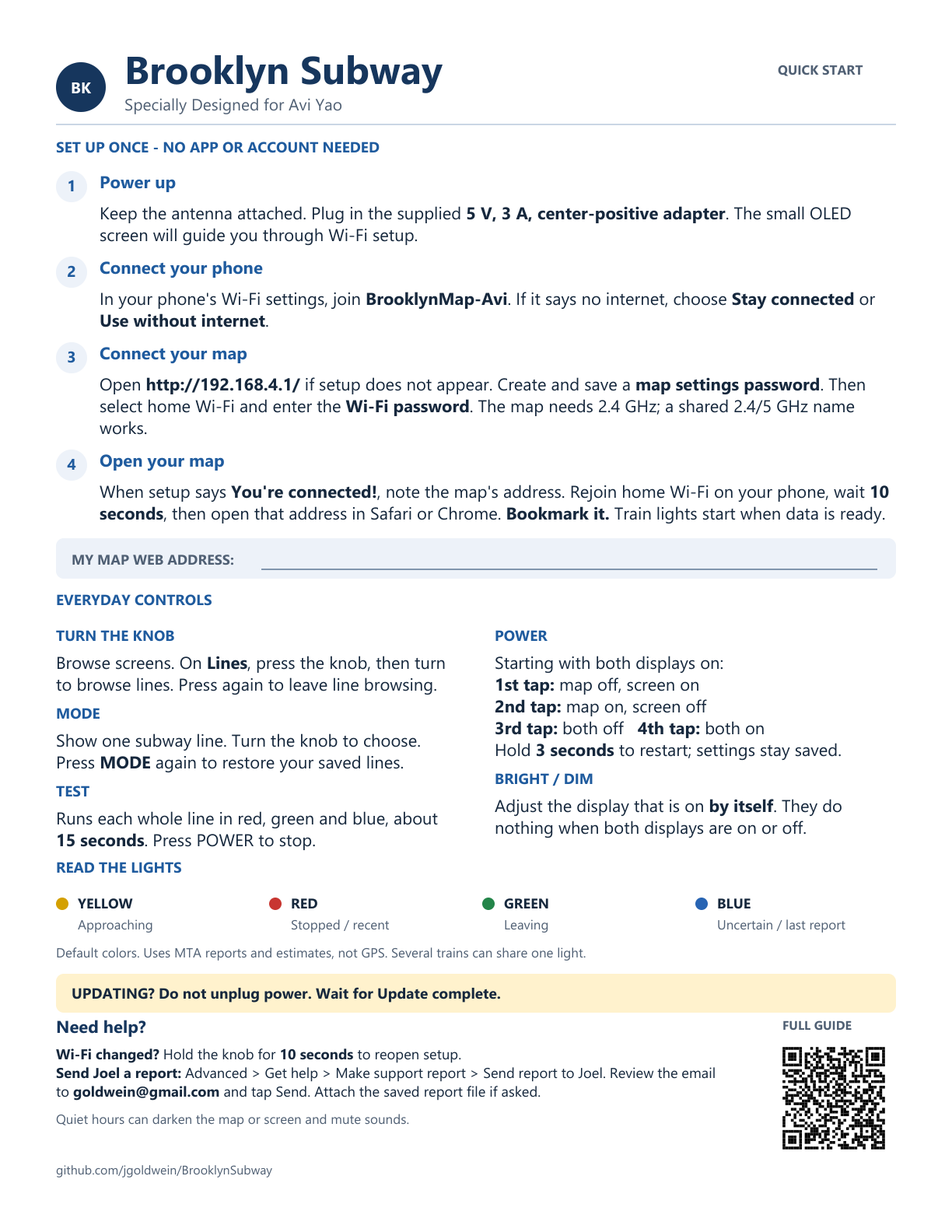
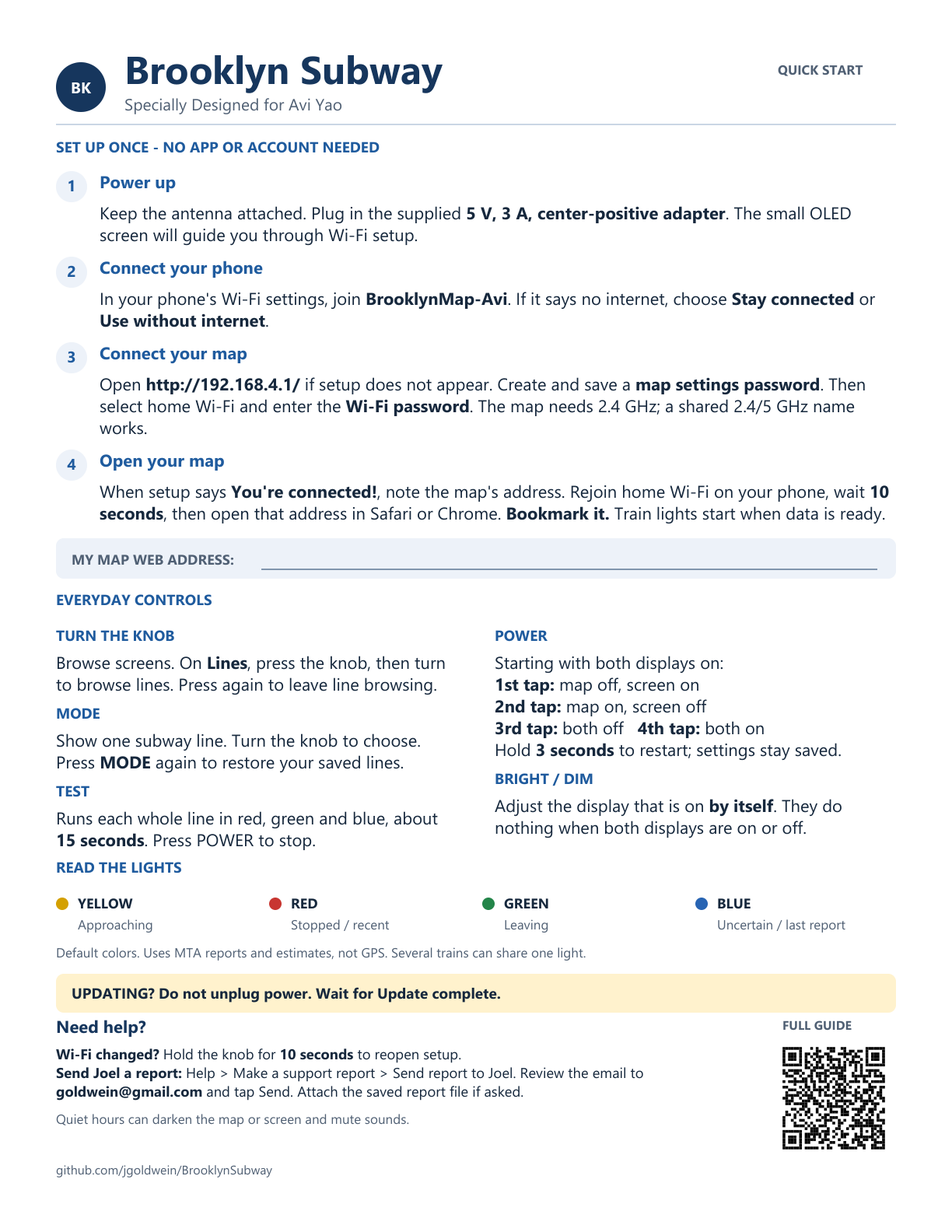
Add top-level Help with project links, About and Licenses

Changed region(s): [[0.0621, 0.8662, 0.683, 0.8971]]

diff --git a/include/web_ui_assets.h b/include/web_ui_assets.h
@@ -3,10 +3,10 @@
 #pragma once
 namespace brooklyn::web {
 // Increment the query version whenever these assets change.
-constexpr char kWebUiAssetHead[]=R"UI(<link rel="stylesheet" href="/ui.css?v=038"><script defer src="/ui.js?v=038"></script>)UI";
+constexpr char kWebUiAssetHead[]=R"UI(<link rel="stylesheet" href="/ui.css?v=087"><script defer src="/ui.js?v=087"></script>)UI";
 constexpr char kWebUiCss[]=R"UI(
-*{box-sizing:border-box}body{margin:0 auto;padding:24px 20px;max-width:1040px;background:#f3f6fb;color:#192b44;font:16px/1.5 system-ui,sans-serif}a{color:#1755b3;text-underline-offset:3px}h1,h2,h3,p{margin:0 0 12px}h1{font-size:26px;letter-spacing:-.6px}h2{font-size:21px;letter-spacing:-.3px}h3{font-size:17px}header{display:flex;align-items:center;justify-content:space-between;gap:12px;flex-wrap:wrap;margin-bottom:20px}.brand{display:flex;gap:12px;align-items:center}.brand-mark{display:grid;place-items:center;background:#184b96;color:white;width:44px;height:44px;border-radius:50%;font-weight:800;flex-shrink:0}.subtitle,.muted,.hint{color:#52647b;font-size:14px}.subtitle{margin:0}.account{font-size:14px}.nav{position:sticky;top:8px;z-index:2;display:flex;gap:5px;padding:6px;background:white;border:1px solid #dce4ef;border-radius:14px;margin:0 0 22px}.nav a{flex:1;text-align:center;text-decoration:none;font-weight:650;padding:11px 10px;border-radius:9px;color:#52647b;min-height:44px}.nav a[aria-current=page]{background:#184b96;color:white}.login-shell{display:block;max-width:28rem;margin:40px auto}main{display:grid;grid-template-columns:repeat(2,minmax(0,1fr));gap:18px;align-items:start}section,.card{background:white;border:1px solid #dce4ef;border-radius:16px;padding:22px;min-width:0;box-shadow:0 3px 12px #20365406}.wide,.hero{grid-column:1/-1}.ui-ready .train-colors{grid-column:1/-1;grid-row:1}.ui-ready .map-brightness{grid-column:1;grid-row:2}.ui-ready .uncertain-lights{grid-column:2;grid-row:2/span 2}.ui-ready .blue-hold{grid-column:1;grid-row:3}.hero{border-top:4px solid #1d67b8}.kicker{font-size:12px;text-transform:uppercase;letter-spacing:1.2px;color:#52647b;font-weight:750}.hero h2{font-size:32px;margin:0 0 4px}.metrics{display:grid;grid-template-columns:repeat(3,minmax(0,1fr));gap:12px;margin:20px 0}.metric{border-left:3px solid #dfebf8;padding-left:12px}.metric strong{display:block;font-size:27px;letter-spacing:-.7px}.metric span{font-size:13px;color:#52647b}.actions{display:flex;gap:10px;flex-wrap:wrap}.button,button{display:inline-block;font:inherit;font-weight:650;background:#184b96;border:1px solid #184b96;border-radius:9px;color:white;padding:10px 16px;min-height:44px;text-decoration:none;cursor:pointer}.secondary,.route-controls button{background:#edf3fb;border-color:#d6e2f3;color:#184b96}.button:hover,button:hover{filter:brightness(.94)}:focus-visible{outline:3px solid #d28a00;outline-offset:3px}form{display:grid;gap:12px;margin:16px 0 4px}button{justify-self:start}label{display:block;margin:0;font-weight:550}input,select{font:inherit;max-width:100%;border:1px solid #a8b8cc;border-radius:8px;padding:10px;color:inherit;background:white;min-height:44px}label input:not([type=checkbox]):not([type=range]),label select{display:block;width:100%;margin-top:5px}input[type=checkbox]{width:20px;height:20px;min-height:20px;padding:0;vertical-align:middle;accent-color:#184b96;margin-right:7px}input[type=range]{width:100%;padding:0;accent-color:#184b96;display:block}input[type=number]{max-width:11rem}input[type=password],input[type=text]{width:100%}summary{cursor:pointer;font-weight:650;min-height:44px}details:not(.card){margin:16px 0}details[open]>summary{margin-bottom:16px}dl{display:grid;grid-template-columns:minmax(8rem,1fr) 2fr;gap:8px 14px;font-size:14px;margin:12px 0}dt{font-weight:600;color:#52647b}dd{margin:0;overflow-wrap:anywhere}pre{font-size:12px;max-width:100%;overflow:auto}.color-options{display:grid;grid-template-columns:repeat(4,minmax(0,1fr));gap:14px}.color-options input{height:52px;width:100%;padding:4px}.route-controls{display:flex;gap:8px;margin-bottom:14px;flex-wrap:wrap}.route-list{display:grid;grid-template-columns:repeat(auto-fit,minmax(92px,1fr));gap:8px}.route-list label{display:flex;align-items:center;border:1px solid #dce4ef;border-radius:9px;padding:9px;margin:0;min-height:48px}.route-badge{display:grid;place-items:center;width:29px;height:29px;border-radius:50%;background:#566579;color:white;font-weight:750}.r-2,.r-3{background:#c82b27}.r-4,.r-5,.r-G{background:#16733a}.r-A,.r-C{background:#1657a5}.r-B,.r-D,.r-F,.r-M{background:#c34d09}.r-N,.r-Q,.r-R{background:#ffce32;color:#30290c}.r-J,.r-Z{background:#80552e}.legend{display:grid;grid-template-columns:repeat(2,minmax(0,1fr));gap:12px;font-size:14px}.swatch{display:inline-block;width:12px;height:12px;border-radius:50%;margin-right:8px;border:1px solid #b0bfd1}.blue{background:#205dff}.cyan{background:#25c6c7}.pink{background:#da62ba}.white{background:#f1f3f8}.notice{color:#52647b;font-size:14px;margin:0}.notice:empty{display:none}.footer{text-align:center;font-size:12px;color:#52647b;padding:20px}.danger,form[action='/reboot'] button{background:white;color:#a42c35;border-color:#dfb8bd}[hidden]{display:none!important}@media(max-width:600px){.color-options{grid-template-columns:repeat(2,minmax(0,1fr))}body{padding:16px 12px}h1{font-size:22px}.brand{gap:9px}.brand-mark{width:36px;height:36px;font-size:14px}.subtitle{font-size:12px}.nav a{padding:10px 3px;font-size:13px}.nav{gap:2px;display:grid;grid-template-columns:repeat(5,minmax(0,1fr))}main{display:block}section,.card{padding:18px;margin-bottom:14px}.hero h2{font-size:28px}.metric strong{font-size:23px}.metric{padding-left:8px}.metrics{gap:6px}.metric span{font-size:12px}dl{grid-template-columns:minmax(7rem,1fr) 1.5fr}.actions .button{flex:1;text-align:center}.account{font-size:12px}}
+*{box-sizing:border-box}body{margin:0 auto;padding:24px 20px;max-width:1040px;background:#f3f6fb;color:#192b44;font:16px/1.5 system-ui,sans-serif}a{color:#1755b3;text-underline-offset:3px}h1,h2,h3,p{margin:0 0 12px}h1{font-size:26px;letter-spacing:-.6px}h2{font-size:21px;letter-spacing:-.3px}h3{font-size:17px}header{display:flex;align-items:center;justify-content:space-between;gap:12px;flex-wrap:wrap;margin-bottom:20px}.brand{display:flex;gap:12px;align-items:center}.brand-mark{display:grid;place-items:center;background:#184b96;color:white;width:44px;height:44px;border-radius:50%;font-weight:800;flex-shrink:0}.subtitle,.muted,.hint{color:#52647b;font-size:14px}.subtitle{margin:0}.account{font-size:14px}.nav{position:sticky;top:8px;z-index:2;display:flex;gap:5px;padding:6px;background:white;border:1px solid #dce4ef;border-radius:14px;margin:0 0 22px}.nav a{flex:1;text-align:center;text-decoration:none;font-weight:650;padding:11px 10px;border-radius:9px;color:#52647b;min-height:44px}.nav a[aria-current=page]{background:#184b96;color:white}.login-shell{display:block;max-width:28rem;margin:40px auto}main{display:grid;grid-template-columns:repeat(2,minmax(0,1fr));gap:18px;align-items:start}section,.card{background:white;border:1px solid #dce4ef;border-radius:16px;padding:22px;min-width:0;box-shadow:0 3px 12px #20365406}.wide,.hero{grid-column:1/-1}.ui-ready .train-colors{grid-column:1/-1;grid-row:1}.ui-ready .map-brightness{grid-column:1;grid-row:2}.ui-ready .uncertain-lights{grid-column:2;grid-row:2/span 2}.ui-ready .blue-hold{grid-column:1;grid-row:3}.hero{border-top:4px solid #1d67b8}.kicker{font-size:12px;text-transform:uppercase;letter-spacing:1.2px;color:#52647b;font-weight:750}.hero h2{font-size:32px;margin:0 0 4px}.metrics{display:grid;grid-template-columns:repeat(3,minmax(0,1fr));gap:12px;margin:20px 0}.metric{border-left:3px solid #dfebf8;padding-left:12px}.metric strong{display:block;font-size:27px;letter-spacing:-.7px}.metric span{font-size:13px;color:#52647b}.actions{display:flex;gap:10px;flex-wrap:wrap}.button,button{display:inline-block;font:inherit;font-weight:650;background:#184b96;border:1px solid #184b96;border-radius:9px;color:white;padding:10px 16px;min-height:44px;text-decoration:none;cursor:pointer}.secondary,.route-controls button{background:#edf3fb;border-color:#d6e2f3;color:#184b96}.button:hover,button:hover{filter:brightness(.94)}:focus-visible{outline:3px solid #d28a00;outline-offset:3px}form{display:grid;gap:12px;margin:16px 0 4px}button{justify-self:start}label{display:block;margin:0;font-weight:550}input,select{font:inherit;max-width:100%;border:1px solid #a8b8cc;border-radius:8px;padding:10px;color:inherit;background:white;min-height:44px}label input:not([type=checkbox]):not([type=range]),label select{display:block;width:100%;margin-top:5px}input[type=checkbox]{width:20px;height:20px;min-height:20px;padding:0;vertical-align:middle;accent-color:#184b96;margin-right:7px}input[type=range]{width:100%;padding:0;accent-color:#184b96;display:block}input[type=number]{max-width:11rem}input[type=password],input[type=text]{width:100%}summary{cursor:pointer;font-weight:650;min-height:44px}details:not(.card){margin:16px 0}details[open]>summary{margin-bottom:16px}dl{display:grid;grid-template-columns:minmax(8rem,1fr) 2fr;gap:8px 14px;font-size:14px;margin:12px 0}dt{font-weight:600;color:#52647b}dd{margin:0;overflow-wrap:anywhere}pre{font-size:12px;max-width:100%;overflow:auto}.color-options{display:grid;grid-template-columns:repeat(4,minmax(0,1fr));gap:14px}.color-options input{height:52px;width:100%;padding:4px}.route-controls{display:flex;gap:8px;margin-bottom:14px;flex-wrap:wrap}.route-list{display:grid;grid-template-columns:repeat(auto-fit,minmax(92px,1fr));gap:8px}.route-list label{display:flex;align-items:center;border:1px solid #dce4ef;border-radius:9px;padding:9px;margin:0;min-height:48px}.route-badge{display:grid;place-items:center;width:29px;height:29px;border-radius:50%;background:#566579;color:white;font-weight:750}.r-2,.r-3{background:#c82b27}.r-4,.r-5,.r-G{background:#16733a}.r-A,.r-C{background:#1657a5}.r-B,.r-D,.r-F,.r-M{background:#c34d09}.r-N,.r-Q,.r-R{background:#ffce32;color:#30290c}.r-J,.r-Z{background:#80552e}.legend{display:grid;grid-template-columns:repeat(2,minmax(0,1fr));gap:12px;font-size:14px}.swatch{display:inline-block;width:12px;height:12px;border-radius:50%;margin-right:8px;border:1px solid #b0bfd1}.blue{background:#205dff}.cyan{background:#25c6c7}.pink{background:#da62ba}.white{background:#f1f3f8}.notice{color:#52647b;font-size:14px;margin:0}.notice:empty{display:none}.footer{text-align:center;font-size:12px;color:#52647b;padding:20px}.danger,form[action='/reboot'] button{background:white;color:#a42c35;border-color:#dfb8bd}[hidden]{display:none!important}@media(max-width:600px){.color-options{grid-template-columns:repeat(2,minmax(0,1fr))}body{padding:16px 12px}h1{font-size:22px}.brand{gap:9px}.brand-mark{width:36px;height:36px;font-size:14px}.subtitle{font-size:12px}.nav a{padding:10px 3px;font-size:13px}.nav{gap:2px;display:grid;grid-template-columns:repeat(3,minmax(0,1fr))}main{display:block}section,.card{padding:18px;margin-bottom:14px}.hero h2{font-size:28px}.metric strong{font-size:23px}.metric{padding-left:8px}.metrics{gap:6px}.metric span{font-size:12px}dl{grid-template-columns:minmax(7rem,1fr) 1.5fr}.actions .button{flex:1;text-align:center}.account{font-size:12px}}
 )UI";
-constexpr char kWebUiNavigation[]=R"UI(<nav class="nav" aria-label="Map settings"><a href="#overview" data-nav="overview" aria-current="page">Overview</a><a href="#lights" data-nav="lights">Train lights</a><a href="#screen" data-nav="screen">Screen</a><a href="#wifi" data-nav="wifi">Wi-Fi</a><a href="#advanced" data-nav="advanced">Advanced</a></nav>)UI";
+constexpr char kWebUiNavigation[]=R"UI(<nav class="nav" aria-label="Map settings"><a href="#overview" data-nav="overview" aria-current="page">Overview</a><a href="#lights" data-nav="lights">Train lights</a><a href="#screen" data-nav="screen">Screen</a><a href="#wifi" data-nav="wifi">Wi-Fi</a><a href="#advanced" data-nav="advanced">Advanced</a><a href="/help">Help</a></nav>)UI";
 constexpr char kWebUiNavigationScript[]=R"UI((()=>{const ids=['overview','lights','screen','wifi','advanced'];function show(focus){document.body.classList.add('ui-ready');let id=location.hash.slice(1);if(!ids.includes(id)){try{id=sessionStorage.getItem('bkmap-view')}catch(e){}if(!ids.includes(id))id='overview'}document.querySelectorAll('[data-view]').forEach(e=>e.hidden=e.dataset.view!==id);document.querySelectorAll('[data-nav]').forEach(e=>{if(e.dataset.nav===id)e.setAttribute('aria-current','page');else e.removeAttribute('aria-current')});try{sessionStorage.setItem('bkmap-view',id)}catch(e){}if(focus){const h=document.querySelector('[data-view="'+id+'"] h2');if(h){h.tabIndex=-1;h.focus({preventScroll:true})}window.scrollTo(0,0)}}addEventListener('hashchange',()=>show(true));show(false);document.querySelectorAll('form[action^="/config/"]').forEach(f=>f.addEventListener('submit',()=>{const b=f.querySelector('button[type=submit],button:not([type])');if(b){b.dataset.label=b.textContent;b.disabled=true;b.textContent='Saving...'}}));addEventListener('pageshow',()=>document.querySelectorAll('button[data-label]').forEach(b=>{b.textContent=b.dataset.label;b.disabled=false}))})();)UI";
 }

diff --git a/src/lan_web_policy.cpp b/src/lan_web_policy.cpp
@@ -827,7 +827,6 @@ size_t renderHomePage(char *out, size_t capacity,
     writer.append("</div><button type=\"submit\">Save subway lines</button></form>");
   }
   writer.append("<p class=\"muted\">You can hide every line. The small status lights keep working.</p></section>");
-  writer.append("<details class=\"card wide\" data-view=\"advanced\"><summary>Get help</summary><a href=\"/support\">Make a support report</a></details>");
   writer.append("<details class=\"card wide\" data-view=\"advanced\"><summary>Memory diagnostics</summary><dl>"
                 "<dt>Free internal heap</dt><dd>");
   writer.format("%lu B", static_cast<unsigned long>(status.freeInternalHeap));
@@ -905,6 +904,14 @@ const char *loginTargetForRequest(const char *path) {
   if (strncmp(path,"/config/",8)==0) return "lights";
   if (strcmp(path,"/network-diagnostics/run")==0 || strcmp(path,"/admin/password")==0 || strcmp(path,"/reboot")==0) return "advanced";
   return "overview";
+}
+
+size_t renderHelpPage(char *out,size_t capacity,const char *version,const char *target) {
+  Writer w(out,capacity);
+  w.append("<!doctype html><html lang=\"en\"><head><meta charset=\"utf-8\"><meta name=\"viewport\" content=\"width=device-width,initial-scale=1\"><title>Help - Brooklyn Subway</title><link rel=\"stylesheet\" href=\"/ui.css?v=087\"></head><body><header><div class=\"brand\"><span class=\"brand-mark\" aria-hidden=\"true\">BK</span><div><h1>Brooklyn Subway</h1><p class=\"subtitle\">Specially Designed for Avi Yao</p></div></div></header><nav class=\"nav\" aria-label=\"Map settings\"><a href=\"/#overview\">Overview</a><a href=\"/#lights\">Train lights</a><a href=\"/#screen\">Screen</a><a href=\"/#wifi\">Wi-Fi</a><a href=\"/#advanced\">Advanced</a><a href=\"/help\" aria-current=\"page\">Help</a></nav><main><section class=\"hero\"><p class=\"kicker\">Help &amp; instructions</p><h2>Get to know your map</h2><p>Read the guide, visit the project, or send Joel a report if something looks wrong.</p><div class=\"actions\"><a class=\"button\" href=\"https://github.com/jgoldwein/BrooklynSubway/blob/main/docs/AVI_USER_GUIDE.md\" target=\"_blank\" rel=\"noopener noreferrer\">Read the guide</a><a class=\"button secondary\" href=\"https://github.com/jgoldwein/BrooklynSubway\" target=\"_blank\" rel=\"noopener noreferrer\">Project on GitHub</a></div><p class=\"hint\">GitHub opens in a new tab and needs internet access. This Help page works on your local network.</p></section><section><h2>Ask Joel for help</h2><p>Make a support report, review it, and send it with a description of what happened. Nothing is sent automatically.</p><a class=\"button\" href=\"/support\">Make a support report</a></section><section id=\"about\"><h2>About</h2><p>Brooklyn Subway is a connected subway map specially designed for Avi Yao, from the Goldweins.</p><p>It uses MTA train reports to estimate where trains are. Reports can be delayed or uncertain. This is an independent project, not an official MTA product.</p><dl><dt>Firmware version</dt><dd>");
+  w.html(version);w.append("</dd><dt>Device</dt><dd>");w.html(target);
+  w.append("</dd></dl><p>Copyright 2026 Joel W. Goldwein for original project material.</p></section><section class=\"wide\" id=\"licenses\"><h2>Licenses</h2><p>The original project material uses these licenses:</p><ul><li>Firmware and software: <a href=\"https://github.com/jgoldwein/BrooklynSubway/blob/main/LICENSES/Apache-2.0.txt\" target=\"_blank\" rel=\"noopener noreferrer\">Apache License 2.0</a>.</li><li>Hardware designs: <a href=\"https://github.com/jgoldwein/BrooklynSubway/blob/main/LICENSES/CERN-OHL-P-2.0.txt\" target=\"_blank\" rel=\"noopener noreferrer\">CERN Open Hardware Licence, permissive version 2</a>.</li><li>Documentation: <a href=\"https://github.com/jgoldwein/BrooklynSubway/blob/main/LICENSES/CC-BY-4.0.txt\" target=\"_blank\" rel=\"noopener noreferrer\">Creative Commons Attribution 4.0</a>.</li></ul><p>Third-party software, fonts, MTA data, artwork and trademarks keep their own terms. Adafruit NeoPixel uses LGPL-3.0-or-later. U8g2 code uses BSD-2-Clause; its fonts have separate terms.</p><p><a href=\"https://github.com/jgoldwein/BrooklynSubway/blob/main/THIRD_PARTY_NOTICES.md\" target=\"_blank\" rel=\"noopener noreferrer\">Third-party notices</a> &middot; <a href=\"https://github.com/jgoldwein/BrooklynSubway/blob/main/LICENSE\" target=\"_blank\" rel=\"noopener noreferrer\">Project license overview</a> &middot; <a href=\"https://github.com/olikraus/u8g2/blob/2.36.18/LICENSE\" target=\"_blank\" rel=\"noopener noreferrer\">U8g2 and font license notices</a></p><p class=\"hint\">Full license documents open online. This summary does not replace their terms.</p></section></main></body></html>");
+  return w.size();
 }
 
 size_t renderDefaultsPage(char *out,size_t capacity,const char *csrf) {

diff --git a/include/support_assets.h b/include/support_assets.h
@@ -2,7 +2,7 @@
 // SPDX-License-Identifier: Apache-2.0
 #pragma once
 namespace brooklyn::web {
-constexpr char kSupportPage[]=R"SUP(<!doctype html><html lang="en"><head><meta charset="utf-8"><meta name="viewport" content="width=device-width,initial-scale=1"><title>Brooklyn Subway - Get help</title><link rel="stylesheet" href="/ui.css?v=038"><script defer src="/support.js?v=072"></script></head><body><header><div><h1>Brooklyn Subway</h1><p class="subtitle">Specially Designed for Avi Yao</p></div><a href="/#advanced">Back to Advanced</a></header><main><section class="hero"><h2>Get help</h2><p>If something looks wrong, make a support report and send it to Joel along with what you noticed.</p><p>The report includes software version, uptime, Wi-Fi signal, train-feed health, screen status, memory and recent feed errors. It leaves out passwords, sign-in details, Wi-Fi names and network addresses.</p><p>Review it below before sharing. Send report to Joel opens an email draft to goldwein@gmail.com; you choose when to send it. Nothing is sent automatically.</p><div class="actions"><button id="refresh" type="button">Make support report</button><button id="email" type="button" disabled>Send report to Joel</button><button id="copy" type="button" disabled>Copy support report</button><button id="save" type="button" class="secondary" disabled>Save report file</button></div><p id="notice" role="status" aria-live="polite">Press Make support report to begin.</p><label for="report">Your support report</label><textarea id="report" readonly rows="18" style="width:100%;max-width:100%;font:13px monospace" spellcheck="false"></textarea><noscript><p>Enable JavaScript in your browser to make a report.</p></noscript><p class="hint">This is a snapshot, not a continuous recording. If the board restarts or the problem changes, make a new report.</p></section></main></body></html>)SUP";
+constexpr char kSupportPage[]=R"SUP(<!doctype html><html lang="en"><head><meta charset="utf-8"><meta name="viewport" content="width=device-width,initial-scale=1"><title>Brooklyn Subway - Get help</title><link rel="stylesheet" href="/ui.css?v=038"><script defer src="/support.js?v=072"></script></head><body><header><div><h1>Brooklyn Subway</h1><p class="subtitle">Specially Designed for Avi Yao</p></div><a href="/help">Back to Help</a></header><main><section class="hero"><h2>Get help</h2><p>If something looks wrong, make a support report and send it to Joel along with what you noticed.</p><p>The report includes software version, uptime, Wi-Fi signal, train-feed health, screen status, memory and recent feed errors. It leaves out passwords, sign-in details, Wi-Fi names and network addresses.</p><p>Review it below before sharing. Send report to Joel opens an email draft to goldwein@gmail.com; you choose when to send it. Nothing is sent automatically.</p><div class="actions"><button id="refresh" type="button">Make support report</button><button id="email" type="button" disabled>Send report to Joel</button><button id="copy" type="button" disabled>Copy support report</button><button id="save" type="button" class="secondary" disabled>Save report file</button></div><p id="notice" role="status" aria-live="polite">Press Make support report to begin.</p><label for="report">Your support report</label><textarea id="report" readonly rows="18" style="width:100%;max-width:100%;font:13px monospace" spellcheck="false"></textarea><noscript><p>Enable JavaScript in your browser to make a report.</p></noscript><p class="hint">This is a snapshot, not a continuous recording. If the board restarts or the problem changes, make a new report.</p></section></main></body></html>)SUP";
 constexpr char kSupportScript[]=R"SUP(
 'use strict';
 // Explicit allowlists: never copy whole API objects into the shared report.

diff --git a/tools/host_tests/lan_web_policy_test.cpp b/tools/host_tests/lan_web_policy_test.cpp
@@ -630,8 +630,24 @@ void testPageEscapingAndRequiredContent() {
   }
   CHECK(strstr(page,"aria-label=\"Map settings\"")!=nullptr);
   CHECK(strstr(page,">Advanced</a>")!=nullptr && strstr(page,">More</a>")==nullptr);
+  CHECK(strstr(page,"<a href=\"/help\">Help</a>")!=nullptr);
   CHECK(strstr(page,"<main>")!=nullptr && strstr(page,"</main>")!=nullptr);
   CHECK(strstr(page,"<output id=\"screen-level\"")!=nullptr);
+  {
+    char help[8192];
+    CHECK(brooklyn::web::renderHelpPage(help,sizeof(help),"0.2.87<&>","PCB<&>")>0);
+    CHECK(strstr(help,"0.2.87&lt;&amp;&gt;") && strstr(help,"PCB&lt;&amp;&gt;"));
+    CHECK(strstr(help,"href=\"/help\" aria-current=\"page\"")!=nullptr);
+    CHECK(strstr(help,"href=\"/#overview\"") && strstr(help,"href=\"/#advanced\""));
+    CHECK(strstr(help,"id=\"about\"") && strstr(help,"id=\"licenses\""));
+    CHECK(strstr(help,"Project on GitHub") && strstr(help,"AVI_USER_GUIDE.md"));
+    CHECK(strstr(help,"href=\"/support\"") && strstr(help,"Nothing is sent automatically"));
+    CHECK(strstr(help,"Apache License 2.0") && strstr(help,"CERN Open Hardware Licence") && strstr(help,"Creative Commons Attribution 4.0"));
+    CHECK(strstr(help,"THIRD_PARTY_NOTICES.md") && strstr(help,"LGPL-3.0-or-later") && strstr(help,"BSD-2-Clause"));
+    CHECK(strstr(help,"rel=\"noopener noreferrer\"") && strstr(help,"/ui.css?v=087"));
+    CHECK(brooklyn::web::renderHelpPage(help,16,"0.2.87","PCB")==0);
+    CHECK(brooklyn::web::renderHelpPage(help,sizeof(help),nullptr,nullptr)>0);
+  }
 
   {
     static char expanded[brooklyn::web::kStatusPageCapacity];
@@ -661,8 +677,8 @@ void testPageEscapingAndRequiredContent() {
   CHECK(strstr(page, "method=\"post\" action=\"/config/brightness\"") != nullptr);
   CHECK(strstr(page, "https://") == nullptr);
   CHECK(strstr(page, "cdn") == nullptr);
-  CHECK(strstr(page, "src=\"/ui.js?v=038\"") != nullptr);
-  CHECK(strstr(page, "href=\"/ui.css?v=038\"") != nullptr);
+  CHECK(strstr(page, "src=\"/ui.js?v=087\"") != nullptr);
+  CHECK(strstr(page, "href=\"/ui.css?v=087\"") != nullptr);
   CHECK(strstr(page, "value=\"password sentinel\"") == nullptr);
   CHECK(strstr(page, "password sentinel") == nullptr);
   CHECK(strstr(page, "Choose subway lines") != nullptr);

diff --git a/src/lan_web_ui.cpp b/src/lan_web_ui.cpp
@@ -217,6 +217,11 @@ void LanWebUi::registerRoutes() {
   server_.on("/admin/password", HTTP_POST,
              [this]() { handlePasswordChange(); });
   server_.on("/api/status", HTTP_GET, [this]() { handleStatus(); });
+  server_.on("/help",HTTP_GET,[this](){
+    const size_t length=renderHelpPage(gPage,sizeof(gPage),ota::WebOtaSession::firmwareVersion(),status_.target);
+    if(!length){server_.send(500,"text/plain","Unable to render Help page");return;}
+    sendHtml(gPage,length);
+  });
   server_.on("/support",HTTP_GET,[this](){
     server_.sendHeader("Cache-Control","no-store");server_.sendHeader("X-Content-Type-Options","nosniff");
     server_.send_P(200,"text/html; charset=utf-8",kSupportPage);

diff --git a/include/lan_web_policy.h b/include/lan_web_policy.h
@@ -152,6 +152,7 @@ size_t renderHomePage(char *out, size_t capacity,
 const char *loginReturnPath(const char *target);
 const char *loginTargetForRequest(const char *path);
 size_t renderDefaultsPage(char *out,size_t capacity,const char *csrf);
+size_t renderHelpPage(char *out,size_t capacity,const char *version,const char *target);
 size_t renderScreenOptionsPage(char *out,size_t capacity,uint64_t preferences,bool quietNow,const char *csrf);
 size_t renderLoginPage(char *out, size_t capacity, const char *csrfToken, const char *target = "");
 size_t renderTrainMonitorPage(char *out, size_t capacity, const StatusSnapshot &status);

diff --git a/tools/host_tests/admin_auth_test.cpp b/tools/host_tests/admin_auth_test.cpp
@@ -351,6 +351,7 @@ void testCookieAndEndpointPolicy() {
   CHECK(!brooklyn::admin::isMutationEndpoint("GET", "/wifi/setup"));
   CHECK(!brooklyn::admin::isProtectedEndpoint("GET", "/"));
   CHECK(!brooklyn::admin::isProtectedEndpoint("GET", "/api/status"));
+  CHECK(!brooklyn::admin::isProtectedEndpoint("GET", "/help"));
   CHECK(!brooklyn::admin::isProtectedEndpoint("GET", "/ui.css"));
   CHECK(!brooklyn::admin::isProtectedEndpoint("GET", "/ui.js"));
   CHECK(!brooklyn::admin::isMutationEndpoint("POST", "/ui.css"));

diff --git a/docs/RELEASE_0.2.87.md b/docs/RELEASE_0.2.87.md
@@ -1,0 +1,23 @@
+# Brooklyn Subway 0.2.87
+
+Adds **Help** to the normal device website's top-level menu. It includes:
+
+- A visible **Project on GitHub** link and the online user guide.
+- **Make a support report**, moved from Advanced.
+- **About**, including the firmware version and device type.
+- **Licenses**, with original project terms and links to full third-party notices.
+
+Help is public and readable on the local network without administrator sign-in.
+Online guide and license links need internet and open in a new tab. On phones,
+the six menu items use two rows. Updated assets bypass older browser caches.
+The support page returns to Help. The printable quick-start guide has also
+been updated to match the new menu.
+
+Validation: 949 LAN page checks and 167 administrator checks pass. Production
+and bench network builds pass. Maximum escaped home page remains within the
+existing buffer, with more room than before. The one-page PDF was regenerated,
+its QR code decoded and its rendered layout inspected. Physical browser
+appearance on the device has not yet been confirmed for this release.
+
+Installing the signed update preserves settings. Use **brooklyn-s3-network**
+for the production PCB. Keep power connected during installation.

diff --git a/THIRD_PARTY_NOTICES.md b/THIRD_PARTY_NOTICES.md
@@ -38,3 +38,13 @@ library is licensed under the GNU Lesser General Public License, version 3 or
 included with the library source as `COPYING`; see also
 <https://www.gnu.org/licenses/lgpl-3.0.html>. This notice does not claim
 ownership of the library or alter its license.
+
+## U8g2
+
+The OLED display uses **U8g2 2.36.18** by olikraus and contributors, source:
+<https://github.com/olikraus/u8g2/tree/2.36.18>. Its library code uses the
+two-clause BSD license (BSD-2-Clause), copyright 2016 olikraus@gmail.com.
+Fonts have their own terms; the library code license does not replace them.
+See the complete upstream `LICENSE` and its linked font notices:
+<https://github.com/olikraus/u8g2/blob/2.36.18/LICENSE> and
+<https://github.com/olikraus/u8g2/wiki/fntgrp>.

diff --git a/docs/AVI_USER_GUIDE.md b/docs/AVI_USER_GUIDE.md
@@ -219,7 +219,11 @@ Weather data: [Open-Meteo](https://open-meteo.com/), licensed under
 
 ## Send Joel a support report
 
-1. Open your map's web page and choose **Advanced**, then **Get help**.
+The top-level **Help** menu includes the online guide, **Project on GitHub**,
+**About**, and **Licenses**. You can read the local Help page without internet;
+GitHub links and full license documents need internet access.
+
+1. Open your map's web page and choose **Help**, then **Make a support report**.
 2. Press **Make support report** and review the text.
 3. Press **Send report to Joel**. Your email app opens a draft addressed to
    **goldwein@gmail.com**. Describe the problem, review the message, then tap Send.

diff --git a/docs/shipping/Brooklyn_Subway_Quick_Start.md b/docs/shipping/Brooklyn_Subway_Quick_Start.md
@@ -51,7 +51,7 @@ Default colors. Uses MTA reports and estimates, not GPS. Several trains can shar
 ## Need help?
 
 **Wi-Fi changed?** Hold the knob for **10 seconds** to reopen setup.
-**Send Joel a report:** Advanced > Get help > Make support report > Send report to Joel. Review the email to **goldwein@gmail.com** and tap Send. Attach the saved report file if asked.
+**Send Joel a report:** Help > Make a support report > Send report to Joel. Review the email to **goldwein@gmail.com** and tap Send. Attach the saved report file if asked.
 
 Quiet hours can darken the map or screen and mute sounds.
 
